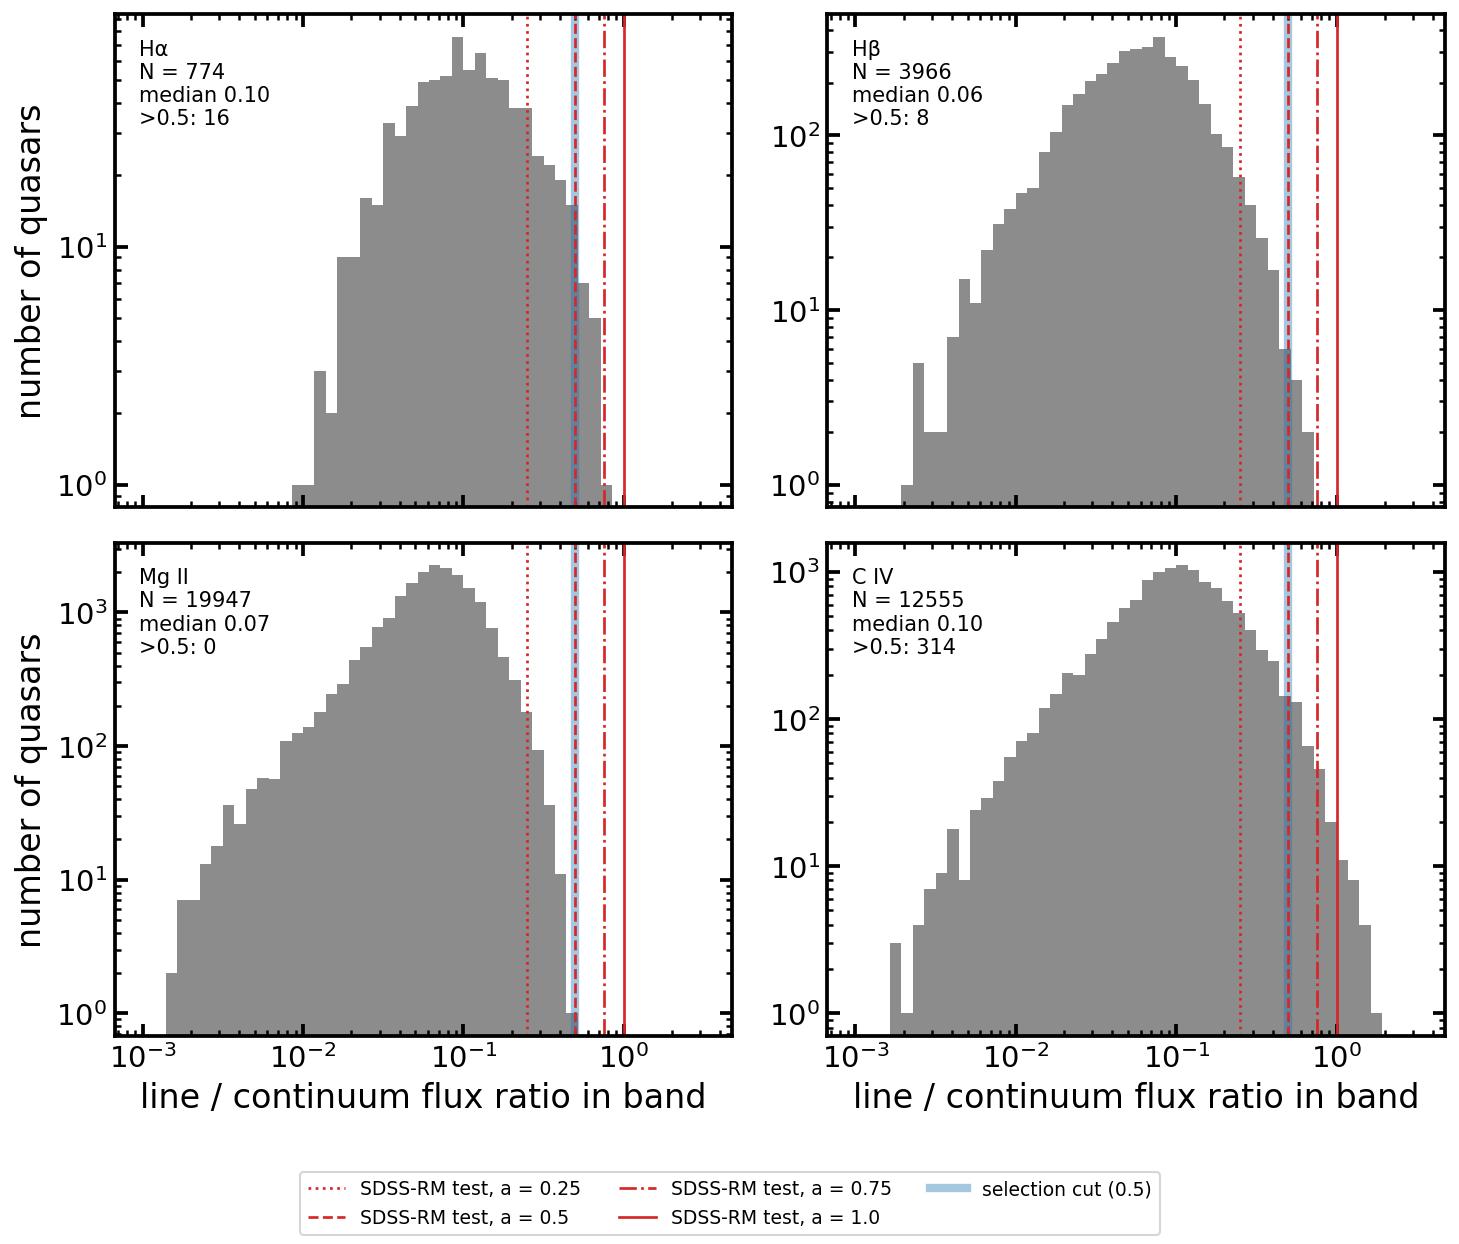
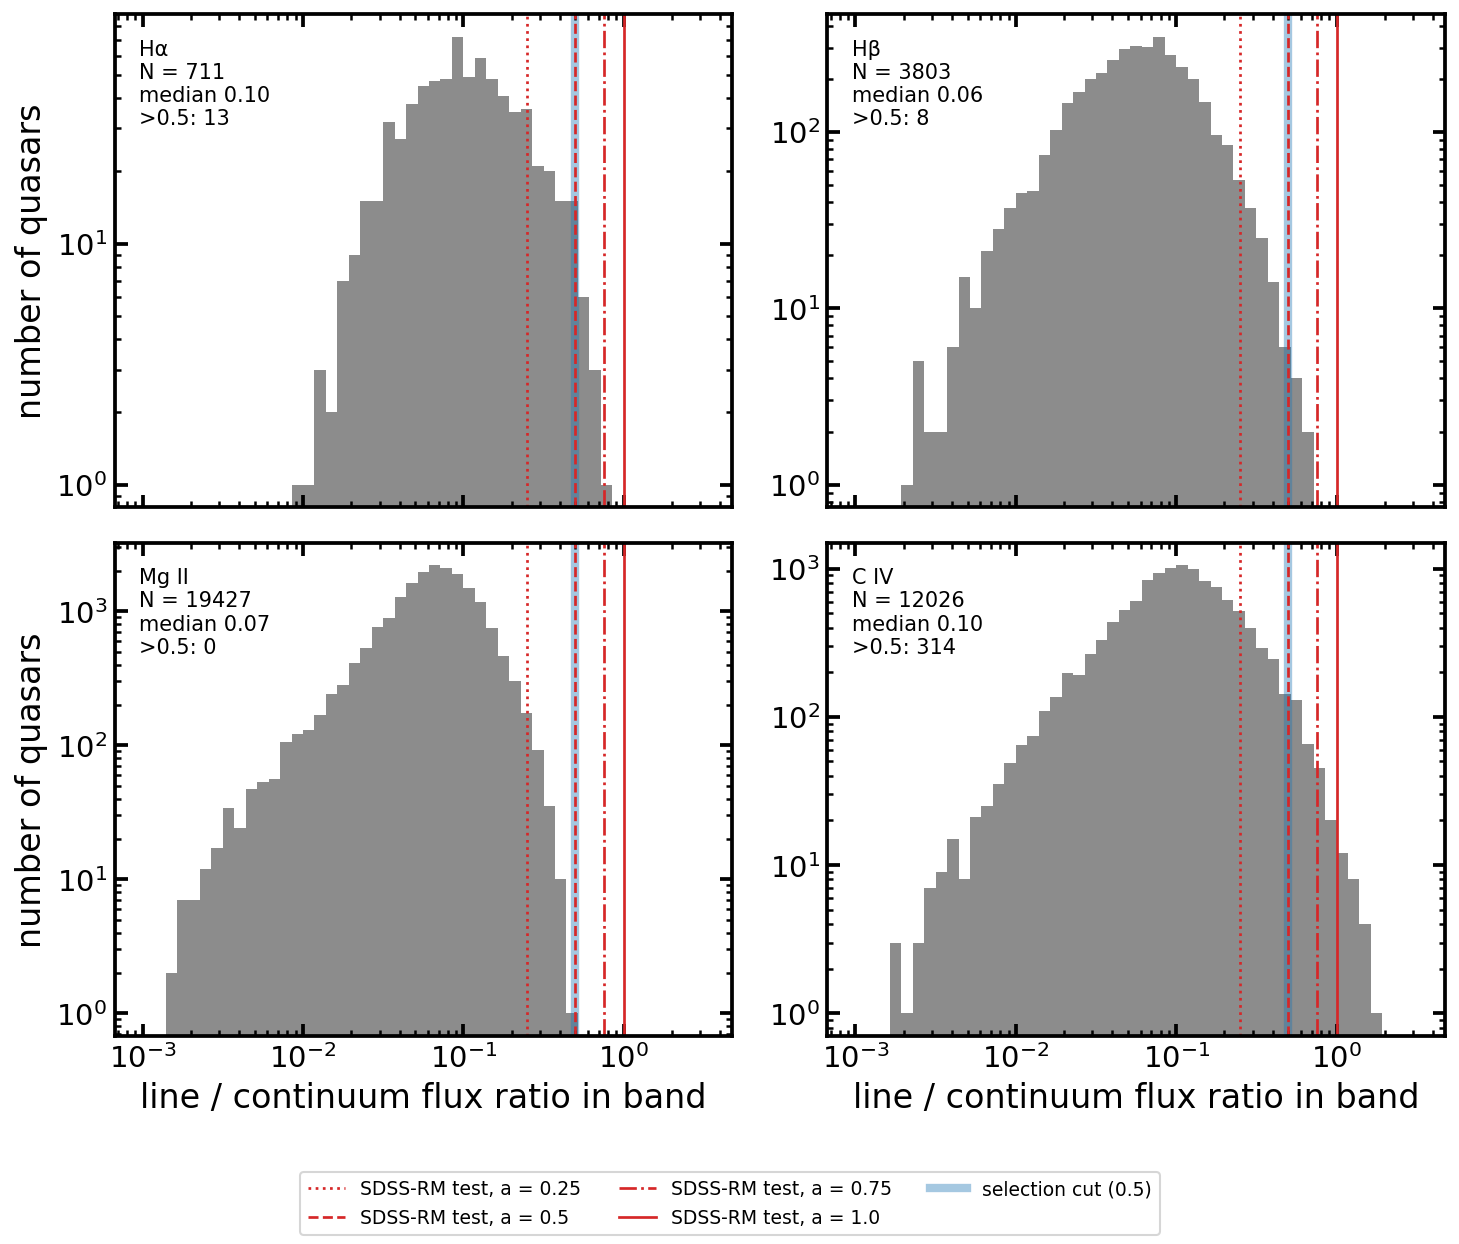
Imaging-continuum bands, known continuum-fraction prior, no slow term or Laplace step
- Synthetic bands pair each Hbeta flux with a photometric continuum point
  within 1 day; the continuum channel drops those points and the
  spectroscopic continuum.
- The band's prompt-continuum amplitude gets a 10% prior at 1/(1+a), the
  continuum fraction known from the spectrum. Without it a short echo is
  degenerate with the prompt continuum and the BLR term fits slow Hbeta
  structure at lags near the baseline.
- Removed the slow Matern component and the Laplace correction (clipped
  non-positive Hessian eigenvalues gave spurious long lags).
- Line-fraction histogram updated for the DR16Q reduced-chi2 cut.

diff --git a/rm_lag_profile.py b/rm_lag_profile.py
@@ -3,13 +3,15 @@
 
 Channel 0 is the continuum. Channel 1 is the released Hbeta light curve (case "spec") or a synthetic photometric
 band "a<amp>" = continuum + amp x Hbeta (see generate_synthetic_hbeta_prm.py). The model is a DRW driver with an
-Erlang BLR response (MixedBLRKernel), one jitter per (channel, facility) group, one mean per channel, a linear
-trend, and (by default) a slow Matern-3/2 component seen only by channel 1. The lag posterior is a profile over a
-fixed rest-frame lag grid with a Laplace correction for the other parameters.
+Erlang BLR response (MixedBLRKernel), one jitter per (channel, facility) group, one mean per channel and a linear
+trend. In a synthetic band the continuum fraction 1 / (1 + amp) is known from the spectrum, so its prompt-continuum
+amplitude gets a prior centered there; without it a short echo is degenerate with the prompt continuum. The lag
+posterior is the profile likelihood over a fixed rest-frame lag grid (the other parameters maximized
+at each lag) times a log-normal lag prior.
 
 Requires burke86/EzTaoX (branch mixed-blr-kernel) and the GitHub version of tinygp; see README.md.
 
-usage: python rm_lag_profile.py <rmid> <case> <out_dir> [--no-slow] [--order K]
+usage: python rm_lag_profile.py <rmid> <case> <out_dir> [--order K]
 """
 import json, sys, time
 from pathlib import Path
@@ -20,7 +22,6 @@ sys.path.insert(0, str(ROOT))
 import jax
 import jax.numpy as jnp
 import numpy as np
-import tinygp.kernels.quasisep as tkq
 from astropy.io import fits
 from scipy.optimize import minimize
 from tinygp import GaussianProcess
@@ -34,25 +35,11 @@ LAG_GRID_REST = np.geomspace(2.0, 900.0, 24)
 LAG_PRIOR_CENTER_REST, LAG_PRIOR_SIGMA_DEX = 100.0, 1.0
 ORDER = 3
 MULTIMODAL_MASS = 0.2
-SLOW_SCALE_PRIOR = (np.log(200.0), 0.5 * np.log(10.0))  # observed days: median ~1.5 seasons, 0.5 dex
-SLOW_AMP_PRIOR = (np.log(0.03), np.log(10.0))  # fractional flux: median 3%, 1 dex
-
-
-class BandMasked(tkq.Wrapper):
-    """A one-dimensional quasiseparable kernel seen only by the bands where mask is nonzero."""
-
-    mask: jnp.ndarray
-
-    def coord_to_sortable(self, X):
-        return X[0]
-
-    def observation_model(self, X):
-        return self.mask[X[1]] * self.kernel.observation_model(X[0])
+CONT_FRAC_PRIOR_WIDTH = 0.1  # ln-space width of the prior on the band's continuum fraction (~10%)
 
 
 def main():
     rmid, case, out_dir = int(sys.argv[1]), sys.argv[2], Path(sys.argv[3])
-    use_slow = "--no-slow" not in sys.argv
     erlang_order = int(sys.argv[sys.argv.index("--order") + 1]) if "--order" in sys.argv else ORDER
     out_dir.mkdir(parents=True, exist_ok=True)
     row = (lambda s: s[s["RMID"] == rmid][0])(fits.open(ROOT / "summary.fits")[1].data)
@@ -71,21 +58,17 @@ def main():
     onepz = 1.0 + z
     trend_scale = 1e-4 * ts / (onepz * RELFLUX_TO_MAG_SCALE)
     norm = jax.scipy.stats.norm.logpdf
-    # theta: log_tau, log_sigma, log_amp_blr, log_amp_cont1, trend, mean0, mean1, logjit[G], (log_slow_amp, log_slow_scale)
+    # band = (continuum + amp x Hbeta) / (1 + amp): the continuum fraction is known from the spectrum's line/continuum ratio
+    log_cont_frac = -np.log1p(float(case[1:].replace("p", "."))) if prm else 0.0
+    # theta: log_tau, log_sigma, log_amp_blr, log_amp_cont1, trend, mean0, mean1, logjit[G]
     names = ["log_tau", "log_sigma", "log_amp_blr", "log_amp_cont1", "trend", "mean0", "mean1"]
     names += [f"logjit_{g}" for g in gnames]
-    if use_slow:
-        names += ["log_slow_amp", "log_slow_scale"]
-    k0 = 7 + G
 
     def neg_log_post(theta, lag_obs):
         amp_cont1 = jnp.exp(theta[3]) if prm else 0.0
         kernel = MixedBLRKernel(params={"lag": lag_obs, "amp_cont": jnp.stack([jnp.asarray(1.0), jnp.asarray(amp_cont1)]),
                                         "amp_blr": jnp.stack([jnp.asarray(0.0), jnp.exp(theta[2])])},
                                 kernel=Exp(scale=jnp.exp(theta[0]), sigma=jnp.exp(theta[1])), order=erlang_order)
-        if use_slow:
-            kernel = kernel + BandMasked(kernel=tkq.Matern32(scale=jnp.exp(theta[k0 + 1]), sigma=jnp.exp(theta[k0])),
-                                         mask=jnp.array([0.0, 1.0]))
         trend, means, logjit = theta[4], theta[5:7], theta[7:7 + G]
         mean = means[band] + jnp.where((band == 0) | prm, trend * (t - tc) / ts, 0.0)
         gp = GaussianProcess(kernel, (t, band), diag=yerr ** 2 + jnp.exp(2 * logjit)[grp] + 1e-10, assume_sorted=True)
@@ -93,19 +76,14 @@ def main():
         lp += norm(theta[0], jnp.log(10 ** 2.5 * onepz), 1.2 * jnp.log(10.0))
         lp += norm(theta[1], -0.6 * jnp.log(10.0) - jnp.log(RELFLUX_TO_MAG_SCALE), jnp.log(10.0))
         lp += norm(theta[2], -1.0, 1.0)
-        lp += norm(theta[3], 0.0, 0.5)
+        lp += norm(theta[3], log_cont_frac, CONT_FRAC_PRIOR_WIDTH)
         lp += norm(theta[4], 0.0, trend_scale)
         lp += jnp.sum(norm(theta[5:7], 0.0, 0.2 / RELFLUX_TO_MAG_SCALE))
         lp += jnp.sum(norm(theta[7:7 + G], jitter_loc, 0.5))
-        if use_slow:
-            lp += norm(theta[k0], *SLOW_AMP_PRIOR) + norm(theta[k0 + 1], *SLOW_SCALE_PRIOR)
         return -lp
 
     vg = jax.jit(jax.value_and_grad(neg_log_post))
-    hess = jax.jit(jax.hessian(neg_log_post))
     bounds = [(np.log(10 * onepz), np.log(1e4 * onepz)), (-8, 3), (-6, 3), (-3, 3), (-2, 2), (-2, 2), (-2, 2)] + [(-12, 0)] * G
-    if use_slow:
-        bounds += [(np.log(1e-4), np.log(0.5)), (np.log(90.0), np.log(5000.0))]
     free = np.ones(len(names), bool)
     if not prm:
         free[3] = False  # no continuum in the pure line channel
@@ -122,23 +100,19 @@ def main():
         return best
 
     def base(tau):
-        v = [np.log(tau), np.log(max(data["continuum_std"], 0.02)), -1.0, 0.0, 0.0, 0.0, 0.0, *np.asarray(jitter_loc)]
-        return np.array(v + ([np.log(0.01), np.log(200.0)] if use_slow else []))
+        v = [np.log(tau), np.log(max(data["continuum_std"], 0.02)), -1.0, log_cont_frac, 0.0, 0.0, 0.0, *np.asarray(jitter_loc)]
+        return np.array(v)
 
-    U, logdet, nonpos, maps, prev = [], [], [], [], None
+    U, maps, prev = [], [], None
     for lag_rest in LAG_GRID_REST:
         lag_obs = lag_rest * onepz
         r = fit(lag_obs, [base(300.0), base(3000.0)] if prev is None else [prev, base(500.0)])
         prev = r.x
-        H = np.asarray(hess(jnp.asarray(r.x), lag_obs))[np.ix_(free, free)]
-        ev = np.linalg.eigvalsh(0.5 * (H + H.T))
-        nonpos.append(bool(np.any(ev <= 0)))
-        logdet.append(float(np.sum(np.log(np.clip(ev, 1e-8, None)))))
         U.append(float(r.fun)); maps.append(r.x.tolist())
-    U, logdet = np.array(U), np.array(logdet)
+    U = np.array(U)
     loglag = np.log10(LAG_GRID_REST)
     log_prior = -0.5 * ((loglag - np.log10(LAG_PRIOR_CENTER_REST)) / LAG_PRIOR_SIGMA_DEX) ** 2
-    logp = -U - 0.5 * logdet + log_prior
+    logp = -U + log_prior
     post = np.exp(logp - logp.max()); post /= post.sum()
     lik = np.exp(logp - log_prior - (logp - log_prior).max()); lik /= lik.sum()
 
@@ -159,15 +133,14 @@ def main():
         return sorted(out, key=lambda p: -p[1])
 
     pk = peaks(post)
-    res = dict(rmid=rmid, case=case, z=z, slow=use_slow, erlang_order=erlang_order, n_cont=data["n_cont"], n_line=data["n_line"], groups=gnames,
+    res = dict(rmid=rmid, case=case, z=z, erlang_order=erlang_order, n_cont=data["n_cont"], n_line=data["n_line"], groups=gnames,
                ref_lag_obs=float(row["HB_LAG_DET"]), ref_err=np.asarray(row["HB_LAG_DET_ERR"], float).ravel().tolist(),
-               ref_grade=int(row["HB_LAG_GRADE"]), lag_rest_grid=LAG_GRID_REST.tolist(), U=U.tolist(), logdet=logdet.tolist(),
-               hessian_nonpos=nonpos, posterior=post.tolist(), prior_divided=lik.tolist(),
+               ref_grade=int(row["HB_LAG_GRADE"]), lag_rest_grid=LAG_GRID_REST.tolist(), U=U.tolist(), posterior=post.tolist(), prior_divided=lik.tolist(),
                q_post_rest=quantiles(post), q_prior_divided_rest=quantiles(lik), peaks_post=pk,
                multimodal=bool(len(pk) > 1 and pk[1][1] >= MULTIMODAL_MASS),
                edge=bool(np.argmax(post) in (0, len(post) - 1)), map_theta=maps, theta_names=names,
                t_total=time.time() - t_start)
-    tag = ("slow" if use_slow else "noslow") + ("" if erlang_order == ORDER else f"_K{erlang_order}")
+    tag = f"K{erlang_order}"
     (out_dir / f"rm{rmid:03d}_{case}_{tag}.json").write_text(json.dumps(res))
     q = res["q_post_rest"]
     print(f"DONE rm{rmid:03d} {case} {tag}: lag {q[1]*onepz:.1f} [{q[0]*onepz:.1f},{q[2]*onepz:.1f}] obs d vs ref "

diff --git a/generate_synthetic_hbeta_prm.py b/generate_synthetic_hbeta_prm.py
@@ -1,14 +1,16 @@
 #!/usr/bin/env python
-"""Generate synthetic photometric-RM bands from the SDSS-RM spectra, with no interpolation.
+"""Generate synthetic photometric-RM bands from SDSS-RM imaging and spectra, with no interpolation.
 
-Each SDSS-RM spectrum gives a continuum flux density (the ``sdss_spec`` rows of ``cont_lc.txt``) and an H-beta flux
-(``hb_lc.txt``) at the same epoch. At every such epoch this script writes a band containing both,
+For each SDSS-RM spectrum (an H-beta flux in ``hb_lc.txt``) with a photometric continuum point taken within
+MATCH_TOL days (any facility in ``cont_lc.txt`` except the spectroscopic ``sdss_spec`` rows), this script writes a
+band containing both, at the photometric epoch:
 
     F_a(t) = 1 + (delta_C(t) + a * delta_Hbeta(t)) / (1 + a),
 
 where delta = flux / median(flux) - 1 for each light curve and ``a`` is the H-beta/continuum flux ratio in the
-band. The errors combine the two measured errors the same way. rm_lag_profile.py drops the ``sdss_spec`` points
-from the continuum channel for these cases, so the two channels share no measurements.
+band. The errors combine the two measured errors the same way. The continuum part has imaging calibration, as in a
+real broad-band survey. rm_lag_profile.py drops these photometric points and the ``sdss_spec`` points from the
+continuum channel, so the two channels share no measurements.
 
 usage: python generate_synthetic_hbeta_prm.py --amplitudes 1.0 0.75 0.5 0.25
 """
@@ -21,7 +23,7 @@ import numpy as np
 
 ROOT = Path(__file__).resolve().parent
 SPEC_STREAM = "sdss_spec"
-MATCH_TOL = 0.01  # days between an H-beta epoch and its spectroscopic continuum point
+MATCH_TOL = 1.0  # days between a spectrum and its photometric continuum point
 
 
 def amplitude_tag(amplitude):
@@ -35,24 +37,28 @@ def fractional(flux, error):
 
 def generate_object(obj_dir, output_dir, amplitudes):
     raw = np.genfromtxt(obj_dir / "cont_lc.txt", comments="#", dtype=None, encoding="utf-8")
-    spec = np.char.startswith(np.asarray(raw["f3"], dtype=str), SPEC_STREAM)
-    tc, fc, ec = (np.asarray(raw[k], dtype=float)[spec] for k in ("f0", "f1", "f2"))
+    phot = ~np.char.startswith(np.asarray(raw["f3"], dtype=str), SPEC_STREAM)
+    tc, fc, ec = (np.asarray(raw[k], dtype=float)[phot] for k in ("f0", "f1", "f2"))
     tl, fl, el = np.loadtxt(obj_dir / "hb_lc.txt", comments="#", usecols=(0, 1, 2)).T
     good_c = np.isfinite(fc) & np.isfinite(ec) & (ec > 0)
     good_l = np.isfinite(fl) & np.isfinite(el) & (el > 0)
     tc, fc, ec = tc[good_c], fc[good_c], ec[good_c]
     tl, fl, el = tl[good_l], fl[good_l], el[good_l]
     if tc.size < 5:
-        raise ValueError("fewer than five spectroscopic continuum points")
+        raise ValueError("fewer than five photometric continuum points")
 
     o = np.argsort(tc)
     tc, fc, ec = tc[o], fc[o], ec[o]
     j = np.clip(np.searchsorted(tc, tl), 1, tc.size - 1)
     j = np.where(np.abs(tc[j] - tl) < np.abs(tc[j - 1] - tl), j, j - 1)
     matched = np.abs(tc[j] - tl) < MATCH_TOL
+    # two spectra matched to one photometric point: keep the closer spectrum
+    for k in np.unique(j[matched]):
+        same = np.flatnonzero(matched & (j == k))
+        matched[same[np.argsort(np.abs(tc[k] - tl[same]))[1:]]] = False
     if np.count_nonzero(matched) < 5:
-        raise ValueError("fewer than five H-beta epochs with a spectroscopic continuum point")
-    t = tl[matched]
+        raise ValueError("fewer than five H-beta epochs with a photometric continuum point")
+    t = tc[j[matched]]
     dc, dec = fractional(fc[j[matched]], ec[j[matched]])
     dl, del_ = fractional(fl[matched], el[matched])
 
@@ -64,11 +70,12 @@ def generate_object(obj_dir, output_dir, amplitudes):
         err = np.sqrt(dec**2 + (a * del_) ** 2) / (1.0 + a)
         path = obj_out / f"prm_hb_a{amplitude_tag(a)}_lc.txt"
         header = (
-            "Synthetic SDSS-RM photometric Hbeta band at the spectroscopic epochs\n"
+            f"Synthetic SDSS-RM photometric Hbeta band: photometric continuum + Hbeta from a spectrum within {MATCH_TOL:g} d\n"
             f"F = 1 + (delta_cont + {a:g} * delta_Hbeta) / (1 + {a:g})\n"
-            "MJD normalized_flux normalized_flux_err"
+            "MJD(photometric) normalized_flux normalized_flux_err MJD(spectrum)"
         )
-        np.savetxt(path, np.column_stack((t, flux, err)), fmt=("%.6f", "%.10e", "%.10e"), header=header)
+        np.savetxt(path, np.column_stack((t, flux, err, tl[matched])), fmt=("%.6f", "%.10e", "%.10e", "%.6f"),
+                   header=header)
         rows.append({"object": obj_dir.name, "amplitude": a, "n_epochs": int(t.size),
                      "n_hbeta_unmatched": int(np.count_nonzero(~matched)), "path": str(path.relative_to(output_dir))})
     return rows

diff --git a/sdssrm_data.py b/sdssrm_data.py
@@ -18,7 +18,7 @@ MIN_GROUP = 3
 SPEC_STREAM = "sdss_spec"  # continuum measured from the SDSS-RM spectra (same epochs as the line light curves)
 
 
-def load_ascii_light_curve(path, continuum=False, exclude_stream=None):
+def load_ascii_light_curve(path, continuum=False, exclude_stream=None, exclude_times=None):
     if continuum:
         data = np.genfromtxt(path, comments="#", dtype=None, encoding="utf-8")
         t = np.asarray(data["f0"], dtype=float)
@@ -32,6 +32,8 @@ def load_ascii_light_curve(path, continuum=False, exclude_stream=None):
     good = np.isfinite(t) & np.isfinite(flux) & np.isfinite(error) & (error > 0.0)
     if exclude_stream is not None and stream is not None:
         good &= ~np.char.startswith(stream, exclude_stream)
+    if exclude_times is not None:
+        good &= np.min(np.abs(t[:, None] - np.asarray(exclude_times)[None, :]), axis=1) > 1e-4
     t, flux, error = t[good], flux[good], error[good]
     if stream is not None:
         stream = stream[good]
@@ -68,19 +70,20 @@ def load_ascii_light_curve(path, continuum=False, exclude_stream=None):
 
 def load_target(data_dir, rmid, line, synthetic_prm_amplitude=None):
     obj_dir = data_dir / f"rm{rmid:03d}"
-    # A synthetic band is built from the spectroscopic continuum points, so the continuum channel drops them:
-    # the two channels then never share a measurement or its noise.
-    tc, yc, ec, n_cont_rejected = load_ascii_light_curve(
-        obj_dir / "cont_lc.txt", continuum=True,
-        exclude_stream=None if synthetic_prm_amplitude is None else SPEC_STREAM,
-    )
     if synthetic_prm_amplitude is None:
         line_path = obj_dir / LINE_FILES[line]
+        tc, yc, ec, n_cont_rejected = load_ascii_light_curve(obj_dir / "cont_lc.txt", continuum=True)
     else:
         if line != "hb":
             raise ValueError("Synthetic PRM validation currently supports Hbeta only")
         tag = f"{synthetic_prm_amplitude:.3f}".rstrip("0").rstrip(".").replace(".", "p")
         line_path = data_dir / "synthetic_hbeta_prm" / obj_dir.name / f"prm_hb_a{tag}_lc.txt"
+        # The band contains photometric continuum points; the continuum channel drops them and the spectroscopic
+        # continuum, so the two channels never share a measurement or its noise.
+        tc, yc, ec, n_cont_rejected = load_ascii_light_curve(
+            obj_dir / "cont_lc.txt", continuum=True, exclude_stream=SPEC_STREAM,
+            exclude_times=np.loadtxt(line_path, usecols=0),
+        )
     tl, yl, el, n_line_rejected = load_ascii_light_curve(line_path)
     t0 = min(np.min(tc), np.min(tl))
     t = np.concatenate((tc - t0, tl - t0))

diff --git a/README.md b/README.md
@@ -38,19 +38,22 @@ Use `--all` for every object and `--lines` for other broad lines.
 
 ## Running
 
-1. **Synthetic photometric bands.** Each SDSS-RM spectrum gives a continuum point (the `sdss_spec` rows of
-   `cont_lc.txt`) and an Hβ flux at the same epoch. At each of these epochs (about 90 per object) the band is
-   1 + (δC + a δHβ)/(1 + a). Here δ = flux/median − 1, and `a` is the Hβ/continuum flux ratio. Nothing is
-   interpolated.
+1. **Synthetic photometric bands.** Each band point pairs an SDSS-RM Hβ flux with a photometric continuum
+   point (Bok, CFHT, PS1 or ZTF) taken within 1 day of that spectrum. Its value is 1 + (δC + a δHβ)/(1 + a).
+   Here δ = flux/median − 1, and `a` is the Hβ/continuum flux ratio. Nothing is interpolated.
 
    ```bash
    python generate_synthetic_hbeta_prm.py --amplitudes 1.0 0.75 0.5 0.25
    ```
 
    This writes `synthetic_hbeta_prm/rmXXX/prm_hb_a<amp>_lc.txt`. It deletes and rewrites the files it created
-   there, so list every amplitude you want in one call. For these cases the fit drops the `sdss_spec` points
-   from the continuum channel, so that channel has photometric epochs only. The two channels then share no
-   measurements or noise.
+   there, so list every amplitude you want in one call.
+   - The continuum part of the band comes from imaging, as in a real broad-band survey.
+   - For these cases the continuum channel leaves out the photometric points used in the bands and the
+     spectroscopic continuum (`sdss_spec`), so the two channels share no measurements or noise.
+   - Don't build the band from the spectroscopic continuum. Season to season it differs from the photometric
+     continuum by a few percent, and rm177 then came out at about 600 days, against 17 days with the
+     photometric continuum (SDSS-RM: 22 days).
 
 2. **Job list:** quasars with an SDSS-RM Hβ lag of grade ≥ 4, one line per object and case:
 
@@ -64,7 +67,7 @@ Use `--all` for every object and `--lines` for other broad lines.
    sh run_lag_profiles.sh jobs.txt runs/run1 3
    ```
 
-   A single fit is `python rm_lag_profile.py <rmid> <case> <out_dir> [--no-slow] [--order K]`.
+   A single fit is `python rm_lag_profile.py <rmid> <case> <out_dir> [--order K]`.
 
 4. **Recovery summary and plot:**
 
@@ -84,11 +87,14 @@ The model has these parts:
   K = 3 by default). Each channel is `c x(t) + r (ψ * x)(t)`. The Hβ channel of `spec` has no continuum term.
 - **Noise and means:** one jitter per (channel, facility) group, with the facility (telescope + filter) taken
   from the continuum file. There is one mean per channel and one linear trend.
-- **Slow component (on by default; `--no-slow` to turn off):** a Matérn-3/2 process seen only by channel 1, with
-  a timescale of about a season or longer. It absorbs slow structure in the line channel that the continuum
-  doesn't drive. Without it, the broad-line term can absorb that structure and return confident, very long lags.
-- **Lag posterior:** a profile over 24 rest-frame lags (2–900 days, log-normal prior centered at 100 days). At
-  each lag the other parameters are maximized, and a Laplace correction is applied.
+- **Known continuum fraction:** a synthetic band's continuum fraction is 1/(1 + a), which in practice comes from
+  the spectrum (line equivalent width and filter curve). The band's prompt-continuum amplitude gets a log-normal
+  prior centered there, 10% wide (`CONT_FRAC_PRIOR_WIDTH`).
+  - Without this prior, a short echo is nearly indistinguishable from the prompt continuum. The broad-line term
+    then fits slow Hβ variations instead, at lags near the baseline. rm303 came out at about 950 days against
+    24.5.
+- **Lag posterior:** the profile likelihood over 24 rest-frame lags (2–900 days), times a log-normal lag prior
+  centered at 100 days. At each lag the other parameters are maximized.
 
 Each fit writes a JSON file to `<out_dir>/out/`. It contains:
 - the lag grid, the posterior and the prior-divided likelihood;
@@ -97,12 +103,12 @@ Each fit writes a JSON file to `<out_dir>/out/`. It contains:
 - the SDSS-RM reference lag;
 - the best-fit parameters at each lag.
 
-A fit takes about 1–4 minutes and 0.1–1 GB of memory on a laptop CPU.
+A fit takes about 30–60 seconds and 0.1–1 GB of memory on a laptop CPU.
 
 ## Caveats
 
-- **Synthetic bands have the spectroscopic cadence.** That is about 90 epochs: 32 in 2014, then roughly 4–13 a year through 2020.
-  Real broad-band photometry is usually denser, but it has no simultaneous Hβ to build a band from.
+- **Synthetic bands are sparse.** Only spectra with photometry within a day give a band point: about 40 per
+  object (20–45), from 2014 to 2020. A real broad-band survey samples the line at every photometric epoch.
 - **The test lines are strong.** In survey photometry the in-band line/continuum ratio is typically 0.05–0.1,
   below the weakest case here. The histograms show this ratio for about 23,000 variable Stripe 82 quasars, in
   each line's strongest SDSS band. The ratios come from DR16Q broad-line equivalent widths and the SDSS filter
@@ -110,8 +116,6 @@ A fit takes about 1–4 minutes and 0.1–1 GB of memory on a laptop CPU.
   many quasars above 0.5; Hβ has 8 and Mg II none.
 
   ![In-band line/continuum flux ratios of Stripe 82 quasars](figures/line_fraction_hist.png)
-- **The slow component can absorb real echo.** It can absorb part of a slow echo when the line channel is pure
-  Hβ, so compare `spec` fits with `--no-slow`.
 
 ## References
 
